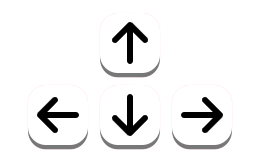
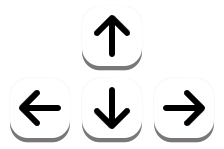
Keyboard guide updated

Changed region(s): [[0.0312, 0.5638, 0.9688, 0.9664], [0.4062, 0.0805, 0.5938, 0.4027], [0.3438, 0.349, 0.6562, 0.4832]]

diff --git a/index.html b/index.html
@@ -306,23 +306,19 @@
 					<p class="mb-2 text-center text-xl font-bold text-slate-200">Controles</p>
 					<div class="mb-2">
 						<p class="text-slate-200 font-semibold mb-1">Movimentação</p>
-						<div class="flex">
-							<div class="w-8 h-8 mr-1 flex text-black font-bold text-lg justify-center items-center bg-white rounded-xl shadow-[0_3px_0_0_rgba(120,120,120,1)]">W</div>
-							<div class="w-8 h-8 mr-1 flex text-black font-bold text-lg justify-center items-center bg-white rounded-xl shadow-[0_3px_0_0_rgba(120,120,120,1)]">A</div>
-							<div class="w-8 h-8 mr-1 flex text-black font-bold text-lg justify-center items-center bg-white rounded-xl shadow-[0_3px_0_0_rgba(120,120,120,1)]">S</div>
-							<div class="w-8 h-8 flex text-black font-bold text-lg justify-center items-center bg-white rounded-xl shadow-[0_3px_0_0_rgba(120,120,120,1)]">D</div>
+						<div class="flex justify-between items-center">
+							<img class="w-24" src="arquivos/assets/wasd_icon.png" title="WASD">
+							<span class="font-inter">Ou</span>
+							<img class="w-24" src="arquivos/assets/arrows_icon.png">
 						</div>
 					</div>
 					<div class="mb-2">
 						<p class="text-slate-200 font-semibold mb-1">Atacar</p>
-						<div class="w-16 mr-1 text-black font-bold text-lg flex flex-col justify-center items-center bg-white rounded-xl shadow-[0_3px_0_0_rgba(120,120,120,1)]">
-							Enter
-							<img class="w-5 h-5 rotate-90" src="arquivos/assets/icons/arrow-turn-left.svg">
-						</div>
+						<img class="w-16" src="arquivos/assets/enter_icon.png">
 					</div>
 					<div>
 						<p class="text-slate-200 font-semibold mb-1">Disparar bola de fogo</p>
-						<div class="w-8 h-8 mr-1 flex text-black font-bold text-lg justify-center items-center bg-white rounded-xl shadow-[0_3px_0_0_rgba(120,120,120,1)]">F</div>
+						<img class="w-10" src="arquivos/assets/f_icon.png">
 					</div>
 				</div>
 
@@ -331,7 +327,7 @@
 						<p class="text-xs mr-1">Não mostrar novamente</p>
 						<input type="checkbox" name="dontshowguide">
 					</div>
-					<button id="close-guide" class="px-2 bg-red-600 text-lg rounded">Fechar</button>
+					<button id="close-guide" class="px-2 bg-red-800 hover:bg-red-700 text-lg rounded">Fechar</button>
 				</div>
 			</div>
 		</div>

diff --git a/arquivos/css/styles.css b/arquivos/css/styles.css
@@ -698,6 +698,14 @@ video {
   margin-right: 0.25rem;
 }
 
+.mt-0{
+  margin-top: 0px;
+}
+
+.mt-0\.5{
+  margin-top: 0.125rem;
+}
+
 .mt-1{
   margin-top: 0.25rem;
 }
@@ -758,10 +766,6 @@ video {
   height: 1.5rem;
 }
 
-.h-8{
-  height: 2rem;
-}
-
 .h-80{
   height: 20rem;
 }
@@ -818,6 +822,10 @@ video {
   width: 5rem;
 }
 
+.w-24{
+  width: 6rem;
+}
+
 .w-36{
   width: 9rem;
 }
@@ -848,10 +856,6 @@ video {
 
 .w-64{
   width: 16rem;
-}
-
-.w-8{
-  width: 2rem;
 }
 
 .w-\[100px\]{
@@ -890,11 +894,6 @@ video {
 
 .-rotate-45{
   --tw-rotate: -45deg;
-  transform: translate(var(--tw-translate-x), var(--tw-translate-y)) rotate(var(--tw-rotate)) skewX(var(--tw-skew-x)) skewY(var(--tw-skew-y)) scaleX(var(--tw-scale-x)) scaleY(var(--tw-scale-y));
-}
-
-.rotate-90{
-  --tw-rotate: 90deg;
   transform: translate(var(--tw-translate-x), var(--tw-translate-y)) rotate(var(--tw-rotate)) skewX(var(--tw-skew-x)) skewY(var(--tw-skew-y)) scaleX(var(--tw-scale-x)) scaleY(var(--tw-scale-y));
 }
 
@@ -1107,11 +1106,6 @@ video {
 .bg-purple-700{
   --tw-bg-opacity: 1;
   background-color: rgb(126 34 206 / var(--tw-bg-opacity));
-}
-
-.bg-red-600{
-  --tw-bg-opacity: 1;
-  background-color: rgb(220 38 38 / var(--tw-bg-opacity));
 }
 
 .bg-red-700{
@@ -1351,23 +1345,12 @@ video {
   color: rgb(161 161 170 / 0.5);
 }
 
-.text-zinc-500{
-  --tw-text-opacity: 1;
-  color: rgb(113 113 122 / var(--tw-text-opacity));
-}
-
 .underline{
   text-decoration-line: underline;
 }
 
 .opacity-20{
   opacity: 0.2;
-}
-
-.shadow-\[0_3px_0_0_rgba\(120\2c 120\2c 120\2c 1\)\]{
-  --tw-shadow: 0 3px 0 0 rgba(120,120,120,1);
-  --tw-shadow-colored: 0 3px 0 0 var(--tw-shadow-color);
-  box-shadow: var(--tw-ring-offset-shadow, 0 0 #0000), var(--tw-ring-shadow, 0 0 #0000), var(--tw-shadow);
 }
 
 .shadow-lg{
@@ -1507,6 +1490,11 @@ input[type="checkbox"][name="dontshowguide"]:checked::after {
 .hover\:bg-neutral-900:hover{
   --tw-bg-opacity: 1;
   background-color: rgb(23 23 23 / var(--tw-bg-opacity));
+}
+
+.hover\:bg-red-700:hover{
+  --tw-bg-opacity: 1;
+  background-color: rgb(185 28 28 / var(--tw-bg-opacity));
 }
 
 .hover\:bg-red-900:hover{
